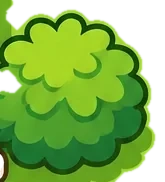
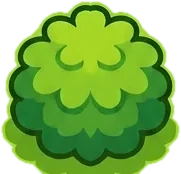
Pets: personal space + no flicker, 4 new pets (capybara, hamster, bunny, penguin), poop and broom clean-up; whole top bush
Claude-Session: https://claude.ai/code/session_01WYXHXwKxHQowMAYmWZLpUL

diff --git a/index.html b/index.html
@@ -119,7 +119,8 @@
   .actB.tag.bite{background:#6fbf4a;box-shadow:0 5px 0 #3f8a2a}
   #fade{position:absolute;inset:0;background:#fffaf0;opacity:0;pointer-events:none;transition:opacity .28s;z-index:40}#fade.on{opacity:1}
   .atHome #mgBtn,.atHome #btnTag,.atHome #btnEmo{display:none!important}
-  #btnFood{display:none}.atHome #btnFood{display:flex}#app:not(.atHome) .foodPanel{display:none!important}
+  #btnFood,#btnClean{display:none}.atHome #btnFood,.atHome #btnClean{display:flex}.atHome #btnChat{display:none!important}
+  #btnClean b{position:absolute;top:-4px;right:-4px;min-width:18px;height:18px;border-radius:9px;background:#e8483f;color:#fff;font:700 11px/18px 'Mali',system-ui,sans-serif;box-shadow:0 1px 3px rgba(0,0,0,.3)}#btnClean b:empty{display:none}#app:not(.atHome) .foodPanel{display:none!important}
   .foodPanel{position:absolute;right:16px;bottom:196px;z-index:5;background:#fffaf0;border-radius:18px;padding:8px;display:flex;gap:6px;box-shadow:0 5px 0 #e7d7b8,0 10px 24px rgba(0,0,0,.25)}
   .foodPanel button{width:60px;height:66px;border:0;border-radius:12px;background:#fff3d6;cursor:pointer;padding:2px 0 0;display:flex;flex-direction:column;align-items:center;justify-content:center;font-family:'Mali',system-ui,sans-serif;font-size:11px;color:#6b4a2b;font-weight:700}
   .foodPanel button:active{background:#ffe08a}.foodPanel canvas{width:40px;height:40px}
@@ -259,7 +260,7 @@
 <div id="fade"></div>
 <button id="petBtn" class="mgBtn petBtn">🐾 Pet</button>
 <div id="petPanel" class="petPanel" style="display:none"></div>
-<div id="chatBtns"><button id="btnEmo" class="smB" aria-label="Emotes">😊<small>H L 1-0</small></button><button id="btnFood" class="smB" aria-label="Pet food"><canvas width="72" height="72" style="width:38px;height:38px"></canvas></button><button id="btnChat" class="smB" aria-label="Chat">💬<small>Enter</small></button></div>
+<div id="chatBtns"><button id="btnEmo" class="smB" aria-label="Emotes">😊<small>H L 1-0</small></button><button id="btnFood" class="smB" aria-label="Pet food"><canvas width="72" height="72" style="width:38px;height:38px"></canvas></button><button id="btnClean" class="smB" aria-label="Clean up poop"><canvas width="72" height="72" style="width:40px;height:40px"></canvas><b id="poopN"></b></button><button id="btnChat" class="smB" aria-label="Chat">💬<small>Enter</small></button></div>
 <div id="emoPanel" class="emoPanel" style="display:none"></div>
 <div id="foodPanel" class="foodPanel" style="display:none"><div class="fpTip">Feed your pets in the front yard</div></div>
 <div id="chatPanel" class="chatPanel" style="display:none"><div class="quick" id="quick"></div>
@@ -325,7 +326,7 @@
 <script>
 // ---- UI icon set (ui_icons.webp, 18 cells in one row) — emoji are shown until it loads ----
 // bump ASSET_V whenever an icon/emote picture changes, so phones download the new one instead of a cached copy
-var ASSET_V='20261120h';
+var ASSET_V='20261120j';
 const IC_N=['logo','pad','freeze','hide','zombie','fire','flash','run','shirt','gear','globe','trophy','girl','boy','jump','tag','logout','hello'];
 const IC={},IC_C={};
 function icFrom(img,i,name){const n=img.height,c=document.createElement('canvas');c.width=c.height=n;c.getContext('2d').drawImage(img,i*n,0,n,n,0,0,n,n);IC_C[name]=c;IC[name]=c.toDataURL();}
@@ -728,10 +729,10 @@ const HK=0.44;   // pictures drawn small (half the area of before) so the yard f
 const RK=0.62;   // the road keeps its size
 const HOME={W:2048*HK,H:200*RK+1536*HK,RH:200*RK,minY:22*RK,
   // walls, fences & furniture where feet can't go (x,y,w,h in home-world px, measured on home_yard / home_house pictures)
-  rects:[[0,200,435,165],[60,340,330,95],[600,200,424,165],[680,340,320,95],[0,200,45,1536],[0,1620,1024,116],[155,625,150,32],[60,1525,215,58],[240,1515,120,70],[740,1598,284,40],[1024,200,1024,195],[1999,200,49,1536],[1024,1648,1024,88],[1024,200,45,615],[1024,1035,45,701]].map(r=>({x:r[0]*HK,y:200*RK+(r[1]-200)*HK,w:r[2]*HK,h:r[3]*HK})),
+  rects:[[0,200,435,165],[60,340,330,95],[600,200,424,165],[680,340,320,95],[0,200,45,1536],[0,1620,1024,116],[165,625,150,32],[60,1525,215,58],[240,1515,120,70],[740,1598,284,40],[1024,200,1024,195],[1999,200,49,1536],[1024,1648,1024,88],[1024,200,45,615],[1024,1035,45,701]].map(r=>({x:r[0]*HK,y:200*RK+(r[1]-200)*HK,w:r[2]*HK,h:r[3]*HK})),
   spawn:{x:517*HK,y:120*RK},imgs:{}};
 // things you can walk behind (cut from the pictures): drawn again on top, sorted with the kids by the line where they touch the ground
-const HOME_PROPS=[["bushL", 150, 280, 165, 182, 445], ["dogh", 40, 1125, 328, 285, 1380], ["bushR", 715, 1165, 309, 305, 1440], ["gate", 380, 0, 320, 180, 165], ["wallD", 1024, 785, 80, 751, 812]];
+const HOME_PROPS=[["bushL", 150, 288, 181, 174, 445], ["dogh", 40, 1125, 328, 285, 1380], ["bushR", 715, 1165, 309, 305, 1440], ["gate", 380, 0, 320, 180, 165], ["wallD", 1024, 785, 80, 751, 812]];
 // a bush rustles while someone moves through / behind it
 function drawProp(o,dt){if(!o.sway){drawVis(o.im,o.im.width/o.w,o.x,o.y,o.w,o.h);return;}
   const who=[P,...petsHere()].some(a=>a.x>o.x+o.w*.1&&a.x<o.x+o.w*.9&&a.y>o.y+o.h*.2&&a.y<o.base+6&&(a===P?P.moving:a.state==='walk'));
@@ -870,7 +871,7 @@ function loop(now){const dt=Math.min(.05,(now-last)/1000);last=now;
     P.t+=dt;const prev=P.frame;P.frame=frameAt(S.frames,sheet(P.char,P.dir).A,P.t,S.fps);if(prev!==P.frame)drawStrip();
   }else if(wasMoving){P.t=0;P.frame=0;drawStrip();}
   if(ready&&npcsOn())NPCS.forEach(n=>updateNPC(n,dt));
-  updateMG(dt);netTick(dt);updatePets(dt);
+  updateMG(dt);netTick(dt);updatePets(dt);updateClean(dt);
   const MWd=mapW(),MHd=mapH();cam.x=clamp(P.x-VW/2,0,Math.max(0,MWd-VW)); if(MWd<VW)cam.x=(MWd-VW)/2; cam.y=clamp(P.y-VH*0.6,0,Math.max(0,MHd-VH));
   if(MHd<VH)cam.y=(MHd-VH)/2;
   ctx.setTransform(dpr*Z,0,0,dpr*Z,0,0);
@@ -886,7 +887,7 @@ function loop(now){const dt=Math.min(.05,(now-last)/1000);last=now;
   const items=[];if(MAPID==='school'){trees.forEach(t=>items.push({y:t[1],d:()=>drawTree(t[0],t[1])}));bushes.forEach(b=>items.push({y:b.y,d:()=>drawBush(b)}));
   NPCS.forEach(n=>{if(npcsOn()||n.mg)items.push({y:n.y,d:()=>drawActor(n,false)});});}
   REMOTE.forEach(a=>{if(sameMap(a))items.push({y:a.y,d:()=>drawActor(a,false)});});
-  if(MAPID==='home'){drawFood();petsHere().forEach(p=>items.push({y:p.y,d:()=>drawPet(p)}));homeProps().forEach(o=>items.push({y:o.base,d:()=>drawProp(o,dt)}));}
+  if(MAPID==='home'){drawFood();drawPoops((y,d)=>items.push({y,d}));petsHere().forEach(p=>items.push({y:p.y,d:()=>drawPet(p)}));homeProps().forEach(o=>items.push({y:o.base,d:()=>drawProp(o,dt)}));}
   items.push({y:P.y,d:()=>drawActor(P,true)});
   items.sort((a,b)=>a.y-b.y).forEach(i=>i.d());
   ctx.restore();
@@ -1459,6 +1460,8 @@ function sfxDoor(){sfxAt(P,(t,d)=>{   // creak open + soft thud shut
   tone({type:'sawtooth',f:520,to:410,slide:.2,len:.22,v:.1,t:t+.36,dest:d,lp:1600,q:5,vib:30,vibD:.04});
   tone({type:'triangle',f:240,to:150,slide:.08,len:.14,v:.42,t:t+.62,dest:d});noise({t:t+.62,len:.06,v:.3,ff:1600,ft:'lowpass',dest:d});   // clack shut
   noise({t:t+.66,len:.025,v:.25,ff:3000,dest:d});});}
+function sfxSweep(){sfxAt(P,(t,d)=>{for(let i=0;i<3;i++){noise({t:t+i*.26,len:.18,v:.32,ff:2600,ft:'bandpass',dest:d});noise({t:t+i*.26+.05,len:.12,v:.18,ff:5200,dest:d});}
+  [88,93,100].forEach((m,i)=>tone({type:'sine',m,len:.35,v:.14,t:t+.85+i*.07,dest:d}));});}
 function sfxPop(a){sfxAt(a,(t,d)=>tone({type:'sine',m:84,to:mtof(91),len:.08,v:.16,t,dest:d}));}
 function sfxJingle(win){sfxAt(P,(t,d)=>{const n=win?[72,76,79,84,79,84]:[72,71,70,67];const l=win?.11:.2;
   n.forEach((m,i)=>tone({type:win?'square':'triangle',m,len:i===n.length-1?.6:l*1.2,v:.14,t:t+i*l,dest:d,lp:3000}));});}
@@ -1545,7 +1548,11 @@ const PET_DEFS={   // pets that have their sprite sheet in the game now
   calico_cat:{name:'Calico Cat',h:100,special:'groom',feel:2,still:[2,3]},     // still pose = eat row, last frame (standing, head up)
   sloth:{name:'Sloth',h:110,special:'sleep',feel:3,still:[3,0]},
   corgi:{name:'Corgi',h:100,special:'zoomies',feel:7,still:[2,3]},
-  turtle:{name:'Turtle',h:66,special:'hide',feel:3,still:[2,3]}};
+  turtle:{name:'Turtle',h:66,special:'hide',feel:3,still:[2,3]},
+  capybara:{name:'Capybara',h:107,special:'relax',feel:3,still:[2,3]},
+  hamster:{name:'Hamster',h:66,special:'cheeks',feel:7,still:[2,3]},
+  holland_lop:{name:'Bunny',h:92,special:'hop',feel:2,still:[2,3]},
+  baby_penguin:{name:'Penguin',h:96,special:'flap',feel:10,still:[2,3]}};
 const PETS_IMG={};
 function petImg(id){if(PETS_IMG[id]!==undefined)return PETS_IMG[id];PETS_IMG[id]=null;
   const im=new Image();im.onload=()=>{PETS_IMG[id]=im;};im.onerror=()=>{PETS_IMG[id]=false;};im.src=`pets/${id}_sheet.webp?v=${ASSET_V}`;return null;}
@@ -1559,6 +1566,26 @@ const PETS=PETS_SEL.map(newPet);
 function savePets(){lsSet('sw_pets',JSON.stringify(PETS.map(p=>p.id)));}
 function togglePet(id){const i=PETS.findIndex(p=>p.id===id);if(i>=0)PETS.splice(i,1);else{if(PETS.length>=PET_MAX)PETS.shift();PETS.push(newPet(id));}savePets();}
 const FOOD=[];   // food dropped on the ground: {x,y,left,kind}
+// ---- poop: pets poop a while after eating (and now and then); sweep it up with the broom ----
+const POOP=[];const CLEAN_IMG=new Image();CLEAN_IMG.src='clean.webp?v='+ASSET_V;   // 0 poop, 1 broom, 2 dustpan, 3 sparkle
+function cleanIcon(g,i,x,y,sz,rot){if(!(CLEAN_IMG.complete&&CLEAN_IMG.naturalWidth))return;const c=CLEAN_IMG.height;g.save();g.translate(x,y);if(rot)g.rotate(rot);g.drawImage(CLEAN_IMG,i*c,0,c,c,-sz/2,-sz/2,sz,sz);g.restore();}
+let CLEAN=null;   // {poop,t}: the broom is busy
+function petPoop(p){if(POOP.length>=8)return;const f=petFoot(p);let x=p.x-p.face*f.rx*1.1,y=p.y+2;if(!petFree(p,x,y)){x=p.x;y=p.y+6;}POOP.push({x,y,t0:performance.now()});sfxAt(p,(t,d)=>{tone({type:'sine',f:300,to:140,slide:.12,len:.14,v:.22,t,dest:d});});updPoopN();}
+function updPoopN(){const b=$('poopN');if(b)b.textContent=POOP.length||'';}
+function startClean(){if(MAPID!=='home'||CLEAN)return;
+  const near=POOP.filter(q=>dist(q,P)<130*S.scale/0.7).sort((a,b)=>dist(a,P)-dist(b,P))[0];
+  if(!near){say(P,POOP.length?'Go closer to the poop':'All clean!');return;}
+  CLEAN={poop:near,t:0};P.target=null;sfxSweep();}
+function updateClean(dt){if(!CLEAN)return;CLEAN.t+=dt;if(CLEAN.t>1.25){const i=POOP.indexOf(CLEAN.poop);if(i>=0)POOP.splice(i,1);updPoopN();CLEAN=null;}}
+function drawPoops(push){for(const q of POOP){const k=S.scale/0.7;push(q.y,()=>{const cl=CLEAN&&CLEAN.poop===q?CLEAN.t:0,fade=cl>.8?Math.max(0,1-(cl-.8)/.3):1;
+    ctx.save();ctx.globalAlpha=fade;ctx.fillStyle='rgba(0,0,0,.14)';ctx.beginPath();ctx.ellipse(q.x,q.y,11*k,4*k,0,0,7);ctx.fill();cleanIcon(ctx,0,q.x,q.y-9*k,24*k);
+    if(!cl){const u=(performance.now()/1000+q.x)%1.6/1.6;ctx.globalAlpha=.55*(1-u);ctx.strokeStyle='#7fae4a';ctx.lineWidth=1.6;   // little stink wiggles
+      for(const sx of [-5,5]){ctx.beginPath();for(let j=0;j<=8;j++){const yy=q.y-20*k-u*14-j*1.6;ctx.lineTo(q.x+sx*k+Math.sin(j*.9+u*6)*2,yy);}ctx.stroke();}}
+    ctx.restore();});}
+  if(CLEAN){const q=CLEAN.poop,k=S.scale/0.7,t=CLEAN.t;push(q.y+1,()=>{
+    if(t<.95){cleanIcon(ctx,2,q.x+18*k,q.y-8*k,28*k);                                         // dustpan beside it
+      const sw=Math.sin(t*16)*.45;cleanIcon(ctx,1,q.x-10*k+Math.sin(t*16)*8*k,q.y-22*k,44*k,sw-.3);}   // broom sweeping to and fro
+    if(t>.8){const u=(t-.8)/.45;ctx.save();ctx.globalAlpha=Math.max(0,1-u);cleanIcon(ctx,3,q.x,q.y-14*k-u*12,(26+u*14)*k);ctx.restore();}});}}
 // 5 kinds of food – every animal only eats the kinds it likes
 const FOODS=[{id:'kibble',n:'Kibble',e:'🟤'},{id:'fish',n:'Fish',e:'🐟'},{id:'leaves',n:'Leaves',e:'🍃'},{id:'fruit',n:'Fruit',e:'🍎'},{id:'seeds',n:'Seeds',e:'🌻'}];
 const FOOD_FANS={
@@ -1591,10 +1618,10 @@ function dropFood(kind){if(MAPID!=='home'||!inYard())return false;kind=kind||'ki
   FOOD.push({x,y,left:1,kind,t0:performance.now()});if(FOOD.length>6)FOOD.shift();sfxPop(P);return true;}
 const randYard=()=>({x:60*HK+Math.random()*(PET_MAXX()-90*HK),y:PET_MINY()+40*HK+Math.random()*(HOME.RH+1400*HK-PET_MINY()-40*HK)});
 function petMoveTo(p,tx,ty,sp,dt){const d=Math.hypot(tx-p.x,ty-p.y);if(d<1)return true;const st=Math.min(sp*dt,d),nx=p.x+(tx-p.x)/d*st,ny=p.y+(ty-p.y)/d*st;
-  if(Math.abs(tx-p.x)>2)p.face=tx>p.x?1:-1;const f=petFoot(p),prx=FOOT_RX*S.scale,pry=FOOT_RY*S.scale;
+  {const sg=tx>p.x?1:-1;if(sg!==p.face&&Math.abs(tx-p.x)>Math.max(6,Math.abs(ty-p.y)*.35)&&(p.faceT||0)<=0){p.face=sg;p.faceT=.4;}}const f=petFoot(p),prx=FOOT_RX*S.scale,pry=FOOT_RY*S.scale;
   const bump=(x,y,o,orx,ory)=>{const v=overlap(x,y,f.rx,f.ry,o,orx,ory);return v<1&&v<overlap(p.x,p.y,f.rx,f.ry,o,orx,ory);};
   const ok=(x,y)=>y>=PET_MINY()&&x<=PET_MAXX()&&!homeHit(x,y,f.rx*.7,f.ry*.7)&&!bump(x,y,P,prx,pry)&&!PETS.some(o=>o!==p&&o.placed&&bump(x,y,o,petFoot(o).rx*.8,petFoot(o).ry*.8));
-  if(ok(nx,ny)){p.x=nx;p.y=ny;p.side=0;return false;}if(ok(nx,p.y)){p.x=nx;return false;}if(ok(p.x,ny)){p.y=ny;return false;}
+  if(ok(nx,ny)){p.x=nx;p.y=ny;p.side=0;p.stuck=0;return false;}if(ok(nx,p.y)){p.x=nx;p.stuck=0;return false;}if(ok(p.x,ny)){p.y=ny;p.stuck=0;return false;}
   // blocked (by you, another pet or a bush): walk round it to one side, keep that side for a while
   const ux=(tx-p.x)/d,uy=(ty-p.y)/d;if(!p.side)p.side=Math.random()<.5?1:-1;
   for(const sd of [p.side,-p.side]){const px=p.x-uy*sd*st,py=p.y+ux*sd*st;if(ok(px,py)){p.x=px;p.y=py;p.side=sd;return false;}}
@@ -1606,27 +1633,39 @@ function placePets(){const list=PETS.filter(p=>PET_DEFS[p.id]);list.forEach((p,i
 // each pet has its own day: sometimes it comes to you, but mostly it strolls, sniffs about, sits still or does its own thing
 function petPlan(p){const info=PET_INFO[p.id],k=petTempo(p),r=Math.random(),pFollow=(info.tame*.6+.1)*.5;   // 50% less keen to come to you than before
   if(r<pFollow&&inYard()){p.plan='follow';p.wantT=(3+Math.random()*4);}
-  else if(r<pFollow+.35){p.plan='stroll';p.wander=randYard();p.wantT=(5+Math.random()*5)/k;}
+  else if(r<pFollow+.35){p.plan='stroll';{let best=null,bd=-1;for(let i=0;i<6;i++){const c=randYard(),m=Math.min(...PETS.filter(o=>o!==p).map(o=>dist(o.wander||o,c)),9999);if(m>bd){bd=m;best=c;}}p.wander=best;}p.wantT=(5+Math.random()*5)/k;}
   else if(r<pFollow+.5){p.plan='special';p.state='special';p.st=0;p.wantT=(4+Math.random()*3)/Math.sqrt(k);}
   else{p.plan='idle';p.wander=null;p.wantT=(2.5+Math.random()*4)/Math.sqrt(k);}}
-function updatePets(dt){if(MAPID!=='home'){PETS.forEach(p=>p.placed=false);return;}placePets();PETS.forEach(p=>{if(PET_DEFS[p.id])updatePet(p,dt);});}
+function petFree(p,x,y){const f=petFoot(p);return y>=PET_MINY()&&x<=PET_MAXX()&&x>=30*HK&&!homeHit(x,y,f.rx*.7,f.ry*.7);}
+function updatePets(dt){if(MAPID!=='home'){PETS.forEach(p=>p.placed=false);return;}placePets();const L=PETS.filter(p=>PET_DEFS[p.id]);L.forEach(p=>updatePet(p,dt));
+  for(let i=0;i<L.length;i++)for(let j=i+1;j<L.length;j++){const a=L[i],b=L[j];if(a.state==='eat'&&b.state==='eat')continue;
+    const want=(petFoot(a).rx+petFoot(b).rx)*1.7,dx=(b.x-a.x)/1,dy=(b.y-a.y)*1.8,d=Math.hypot(dx,dy)||1;
+    if(d<want){const push=Math.min((want-d)/2,45*dt),ux=dx/d,uy=dy/d/1.8;
+      for(const [p,sg] of [[a,-1],[b,1]]){if(p.state==='eat')continue;const nx=p.x+ux*push*sg,ny=p.y+uy*push*sg;if(petFree(p,nx,ny)){p.x=nx;p.y=ny;}}}}
+  // strolling pets choose spots away from the others
+}
+function petWalk(p,on){if(on){if(p.state!=='walk'){p.state='walk';p.st=0;}}else if(p.state==='walk'&&p.st>.35){p.state='stand';p.st=0;}}
+// each pet has its own spot around you when it follows, so they don't pile up on one point
+const FOLLOW_SLOTS=[[-1,.35],[1,.35],[0,1]];
 function updatePet(p,dt){const info=PET_INFO[p.id],k=petTempo(p),sp=info.speed*(S.speed/200);
-  p.t+=dt;p.st+=dt;
+  p.t+=dt;p.st+=dt;p.faceT=(p.faceT||0)-dt;
+  if(p.poopIn==null)p.poopIn=40+Math.random()*60;p.poopIn-=dt;if(p.poopIn<=0&&p.state!=='eat'){p.poopIn=50+Math.random()*70;petPoop(p);}
   // eating / showing love: stay put until done
-  if(p.state==='eat'){if(p.food&&FOOD.includes(p.food)){p.food.left-=dt*k/4;if(p.food.left<=0){FOOD.splice(FOOD.indexOf(p.food),1);p.food=null;petAction('love',p);}}else if(p.st>3/k){p.state='stand';p.st=0;}return;}
+  if(p.state==='eat'){if(p.food&&FOOD.includes(p.food)){p.food.left-=dt*k/4;if(p.food.left<=0){FOOD.splice(FOOD.indexOf(p.food),1);p.food=null;petAction('love',p);p.poopIn=(9+Math.random()*12)/Math.sqrt(k);}}else if(p.st>3/k){p.state='stand';p.st=0;}return;}
   if(p.state==='love'&&p.st<2.2/Math.sqrt(k))return;
   // 1) food on the ground it can smell? go and eat it (fast pets get there first)
   const food=FOOD.filter(f=>likes(p.id,f.kind)&&dist(f,p)<600&&!PETS.some(o=>o!==p&&o.food===f&&o.state==='eat')).sort((a,b)=>dist(a,p)-dist(b,p))[0];
   if(food){const f=petFoot(p),tx=food.x-p.face*f.rx*.9,ty=food.y;
     if(Math.hypot(food.x-p.x,food.y-p.y)<f.rx*1.3){p.face=food.x>p.x?1:-1;p.state='eat';p.st=0;p.food=food;return;}
-    petMoveTo(p,tx,ty,sp,dt);if(p.state!=='walk'){p.state='walk';p.st=0;}return;}
+    petMoveTo(p,tx,ty,sp,dt);petWalk(p,p.stuck<.3);return;}
   if(p.state==='love'){p.state='stand';p.st=0;}
   p.wantT-=dt;if(p.wantT<=0){if(p.state==='special'){p.state='stand';p.st=0;}petPlan(p);}
-  const d=dist(p,P),followD=50+(1-info.tame)*120;
-  if(p.plan==='follow'){if(!inYard()){p.plan='idle';}
-    else if(d>followD){const ux=(P.x-p.x)/d,uy=(P.y-p.y)/d;petMoveTo(p,P.x-ux*followD*.8,P.y-uy*followD*.6,sp,dt);if(p.state!=='walk'){p.state='walk';p.st=0;}return;}}
-  if(p.plan==='stroll'&&p.wander){if(petMoveTo(p,p.wander.x,p.wander.y,sp*.55,dt)||p.stuck>1){p.wander=null;p.stuck=0;p.plan='idle';p.wantT=Math.min(p.wantT,(2+Math.random()*3)/Math.sqrt(k));}else{if(p.state!=='walk'){p.state='walk';p.st=0;}return;}}
-  if(p.state==='walk'){p.state='stand';p.st=0;}}
+  if(p.plan==='follow'){if(!inYard()){p.plan='idle';p.going=false;}
+    else{const sl=FOLLOW_SLOTS[PETS.indexOf(p)%3],R0=60+(1-info.tame)*90,tx=clamp(P.x+sl[0]*R0,40*HK,PET_MAXX()),ty=Math.max(PET_MINY()+10,P.y+sl[1]*R0*.6),dt0=Math.hypot(tx-p.x,ty-p.y);
+      if(dt0>70)p.going=true;else if(dt0<16)p.going=false;   // start / stop with a gap, so it doesn't stop-go-stop
+      if(p.going){petMoveTo(p,tx,ty,sp*(dt0>220?1.15:1),dt);petWalk(p,p.stuck<.3);if(p.stuck>1.5)p.going=false;return;}}}
+  if(p.plan==='stroll'&&p.wander){if(petMoveTo(p,p.wander.x,p.wander.y,sp*.55,dt)||p.stuck>1){p.wander=null;p.stuck=0;p.plan='idle';p.wantT=Math.min(p.wantT,(2+Math.random()*3)/Math.sqrt(k));}else{petWalk(p,p.stuck<.3);return;}}
+  petWalk(p,false);}
 function drawFood(){if(MAPID!=='home')return;for(const f of FOOD){const k=.45+.55*f.left,sz=30*k*S.scale/0.7;ctx.save();ctx.fillStyle='rgba(0,0,0,.15)';ctx.beginPath();ctx.ellipse(f.x,f.y+1,sz*.45,sz*.16,0,0,7);ctx.fill();ctx.restore();
   drawFoodIcon(ctx,f.kind||'kibble',f.x,f.y-sz*.4,sz);}}
 function drawPet(p){const def=PET_DEFS[p.id],H=petH(p),t=p.t,s=p.state;
@@ -1645,11 +1684,13 @@ function buildPetPanel(){const box=$('petPanel');box.innerHTML='';
   const head=(title)=>{const h=document.createElement('div');h.className='petLbl';h.textContent=title;box.appendChild(h);const row=document.createElement('div');row.className='petRow';box.appendChild(row);return row;};
   const btn=(row,label,on,fn)=>{const b=document.createElement('button');b.textContent=label;if(on)b.classList.add('on');b.onclick=e=>{e.stopPropagation();fn();buildPetPanel();};row.appendChild(b);};
   const r1=head(`Pets in the yard (${PETS.length}/${PET_MAX})`);
-  [['calico_cat','🐱 Cat'],['corgi','🐶 Corgi'],['sloth','🦥 Sloth'],['turtle','🐢 Turtle']].forEach(([id,l])=>btn(r1,l,PETS.some(p=>p.id===id),()=>togglePet(id)));
+  [['calico_cat','🐱 Cat'],['corgi','🐶 Corgi'],['sloth','🦥 Sloth'],['turtle','🐢 Turtle'],['capybara','🦫 Capybara'],['hamster','🐹 Hamster'],['holland_lop','🐰 Bunny'],['baby_penguin','🐧 Penguin']].forEach(([id,l])=>btn(r1,l,PETS.some(p=>p.id===id),()=>togglePet(id)));
   const r2=head('Do (nearest pet)');
   [['love','❤ Pet it'],['special','💤 Own action']].forEach(([v,l])=>btn(r2,l,false,()=>petAction(v)));
   if(PETS.length){const L=document.createElement('div');L.className='petLikes';PETS.forEach(p=>{const d=document.createElement('div');d.append((PET_DEFS[p.id]?.name||p.id)+' likes ');likedFoods(p.id).forEach(f=>d.appendChild(iconCanvas(f.id,22)));L.appendChild(d);});box.appendChild(L);}
   const x=document.createElement('button');x.className='hideX petX';x.innerHTML='<i class="ic" data-ic="close">✕</i>';x.onclick=e=>{e.stopPropagation();box.style.display='none';};box.appendChild(x);applyIcons(box);}
+{const c=$('btnClean').querySelector('canvas'),g=c.getContext('2d'),p=()=>{g.clearRect(0,0,72,72);cleanIcon(g,1,36,36,70,0);};p();CLEAN_IMG.addEventListener('load',p);}
+$('btnClean').addEventListener('pointerdown',e=>{e.preventDefault();e.stopPropagation();foodPanel.style.display='none';startClean();});
 const foodPanel=$('foodPanel');
 function buildFoodPanel(){foodPanel.querySelectorAll('button').forEach(b=>b.remove());FOODS.forEach(f=>{const b=document.createElement('button');b.setAttribute('aria-label',f.n);b.appendChild(iconCanvas(f.id,40));b.append(f.n);
   b.addEventListener('pointerdown',e=>{e.preventDefault();e.stopPropagation();if(dropFood(f.id))foodPanel.style.display='none';});foodPanel.appendChild(b);});}
